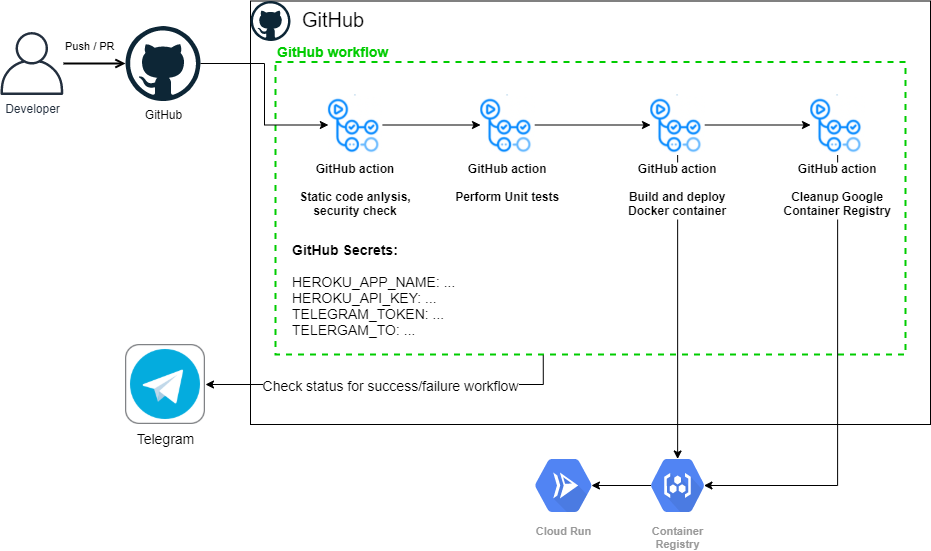
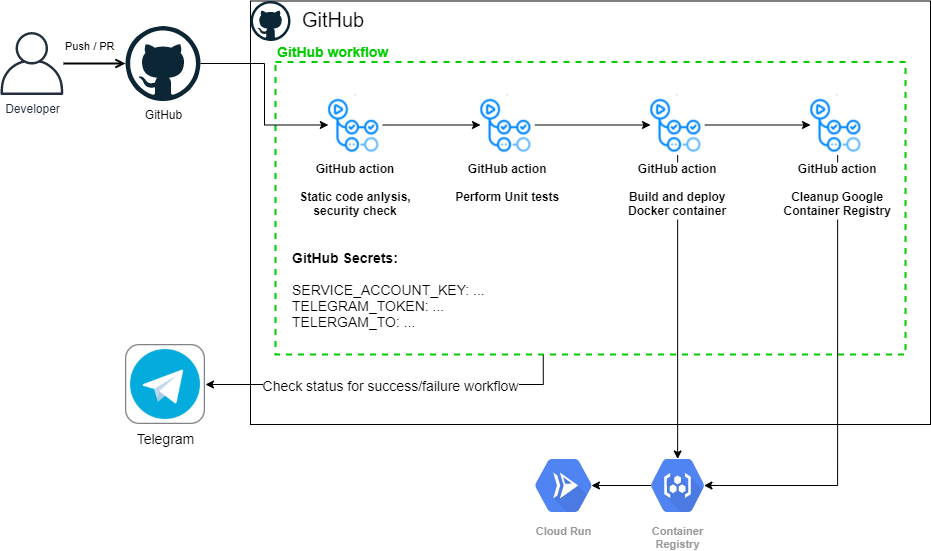
update readme and diagram

Changed region(s): [[0.3115, 0.4319, 0.4984, 0.6171]]

diff --git a/README.md b/README.md
@@ -36,9 +36,9 @@ Fork this repository. Fill in environmental variables in ./github/workflows/work
 
 CI/CD job uses GitHub secrets, which you can setting up on `Settings / Secrets` section:
 
-`SERVICE_ACCOUNT_KEY` - Google service account credentials (JSON).
-`TELEGRAM_TOKEN` - Telegram Bot token.
-`TELEGRAM_TO` - Your telegram channel (`@channelname`) or user id. You can find your user id, for example by talking to [@jsondumpbot](https://t.me/jsondumpbot)
+- `SERVICE_ACCOUNT_KEY` - Google service account credentials (JSON).
+- `TELEGRAM_TOKEN` - Telegram Bot token.
+- `TELEGRAM_TO` - Your telegram channel (`@channelname`) or user id. You can find your user id, for example by talking to [@jsondumpbot](https://t.me/jsondumpbot)
 
 ### LOGS
 
